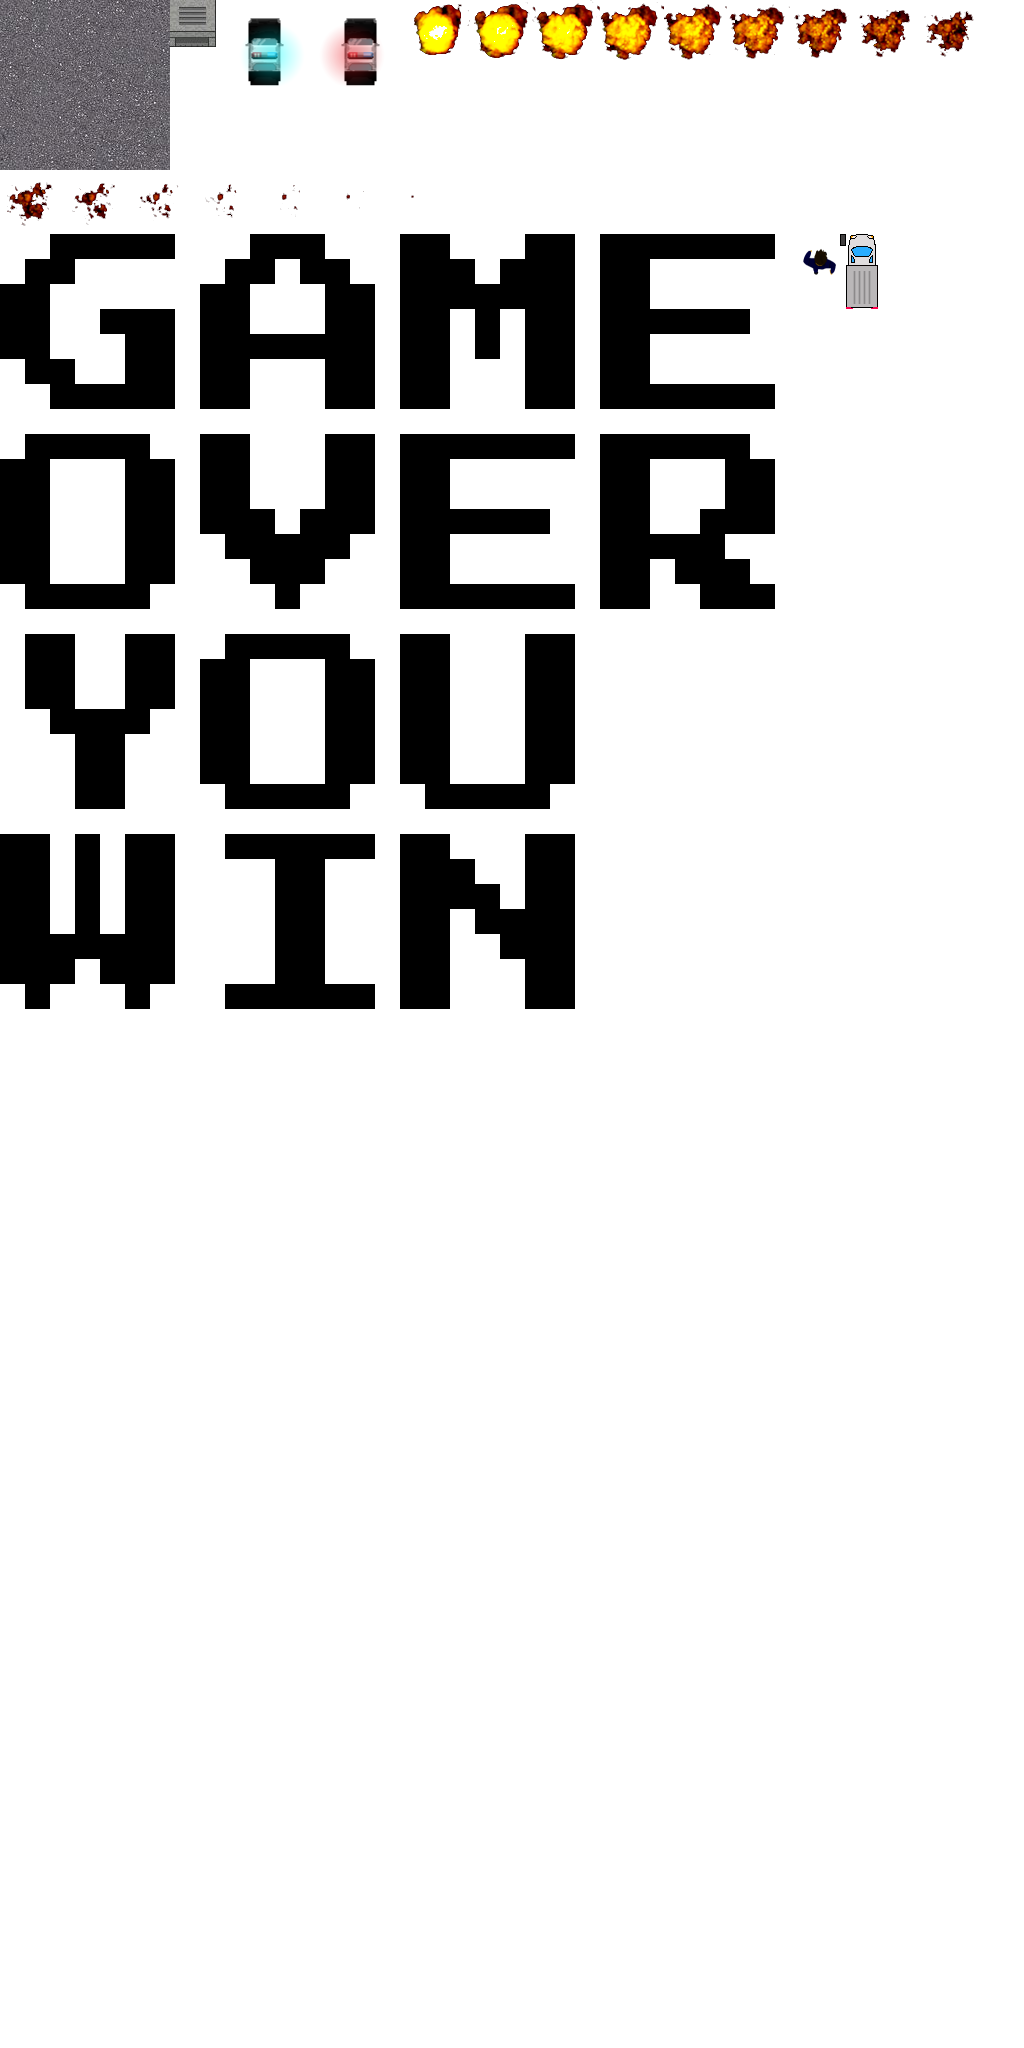
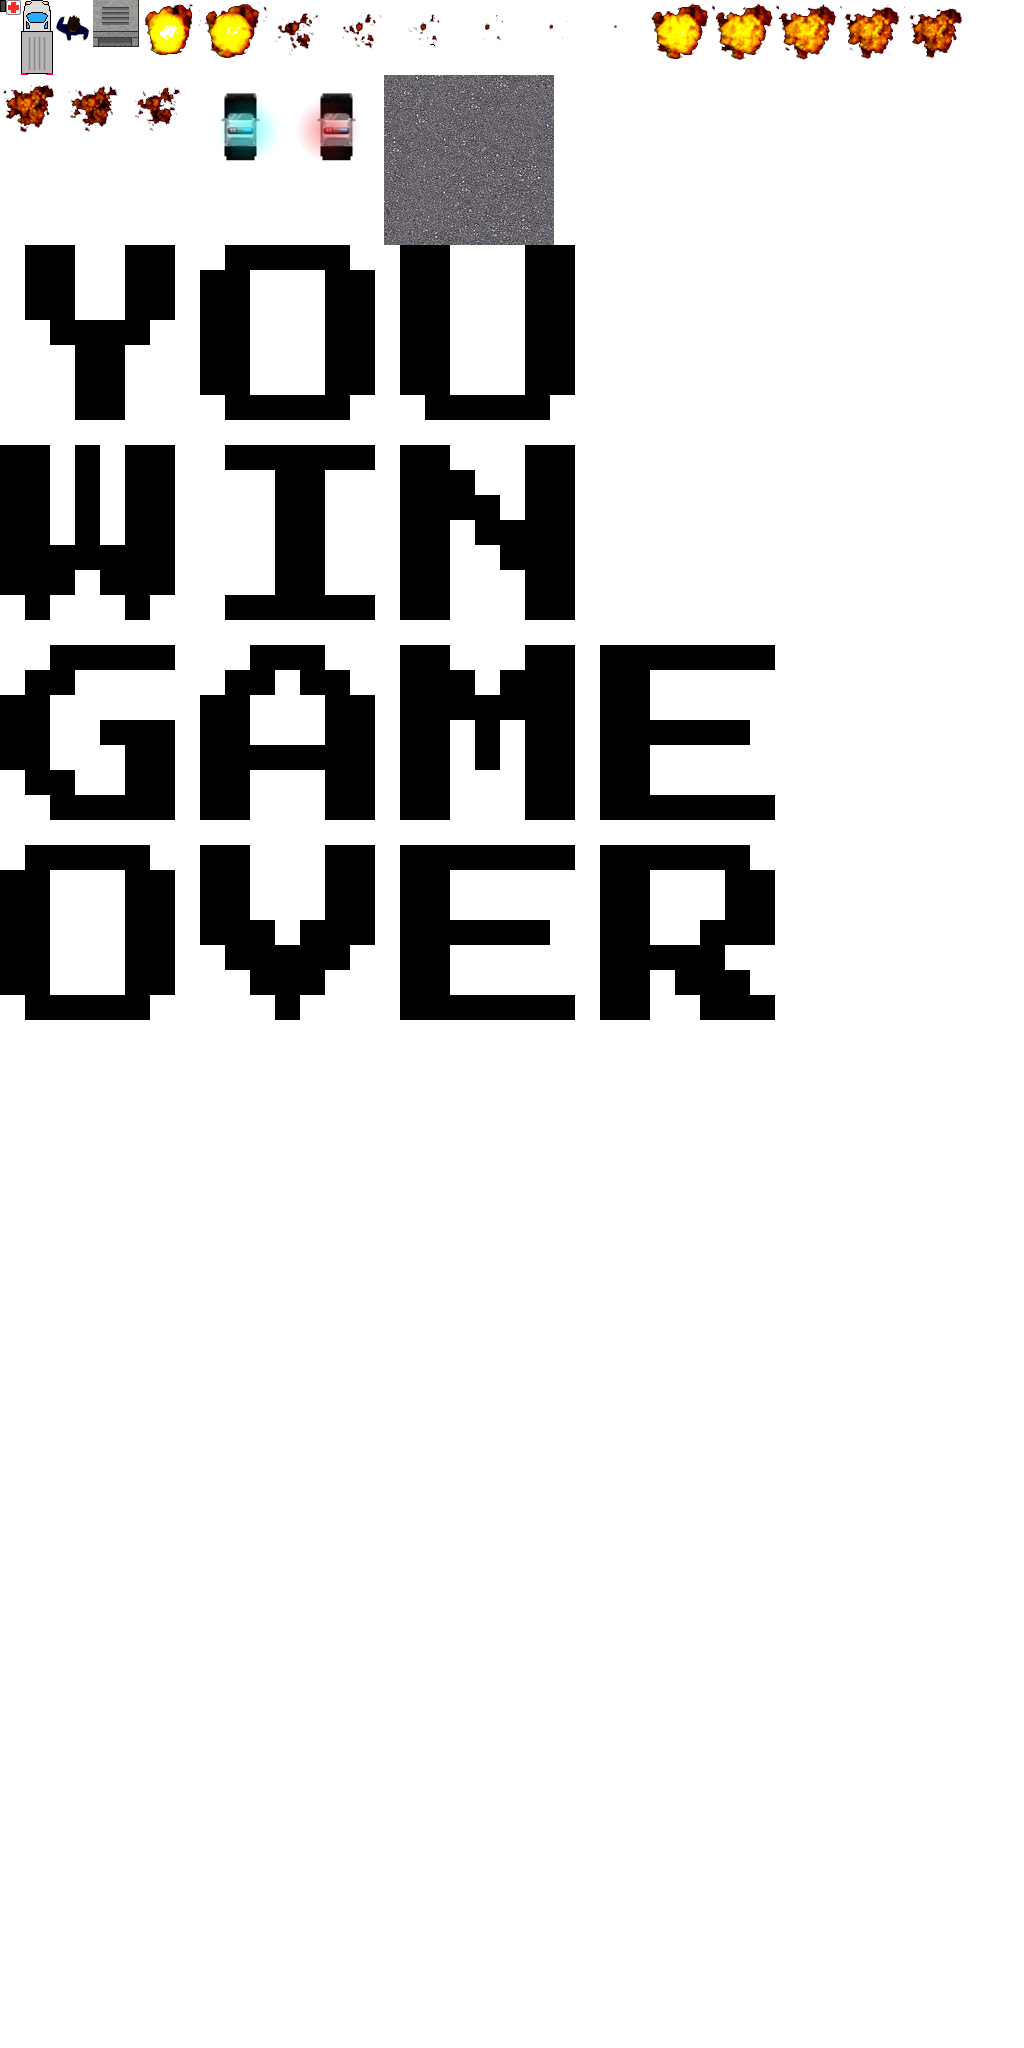
Add nonfunctional powerups

diff --git a/project/Car/CarGame.cpp b/project/Car/CarGame.cpp
@@ -13,6 +13,7 @@
 #include <random>
 #include "glm/gtc/matrix_transform.hpp"
 #include "SDL_mixer.h"
+#include "PowerupComponent.hpp"
 
 using namespace sre;
 
@@ -187,9 +188,7 @@ void CarGame::spawnEnemy(glm::vec2 position)
 {
     if (position == glm::vec2(0, 0))
     {
-        float distance = 300;
-        auto angle = ran(gen) * M_PI * 2;
-        position = carObj->getPosition() + (distance * glm::vec2(glm::sin(angle), glm::cos(angle)));
+        position = getRandomSpawnPosition();
     }
 
     auto enemyObj = createGameObject();
@@ -205,13 +204,19 @@ void CarGame::spawnEnemy(glm::vec2 position)
     enemyObj->addComponent<KillableComponent>();
 }
 
+glm::vec2 CarGame::getRandomSpawnPosition() 
+{
+    float distance = 30;
+    auto angle = ran(gen) * M_PI * 2;
+    auto position = carObj->getPosition() + (distance * glm::vec2(glm::sin(angle), glm::cos(angle)));
+    return position;
+}
+
 void CarGame::spawnNPC(glm::vec2 position)
 {
     if (position == glm::vec2(0, 0))
     {
-        float distance = 30;
-        auto angle = ran(gen) * M_PI * 2;
-        position = carObj->getPosition() + (distance * glm::vec2(glm::sin(angle), glm::cos(angle)));
+        position = getRandomSpawnPosition();
     }
 
     auto NPCObj = createGameObject();
@@ -225,6 +230,25 @@ void CarGame::spawnNPC(glm::vec2 position)
     kc->damageSpeedThreshold = 0;
     auto phys = NPCObj->addComponent<PhysicsComponent>();
     phys->initCircle(b2_dynamicBody, 30 / 10, position, 5);
+}
+
+void CarGame::spawnPowerup(PowerupType type, glm::vec2 position) 
+{
+    if (position == glm::vec2(0, 0))
+    {
+        position = getRandomSpawnPosition();
+    }
+
+    auto obj = createGameObject();
+    obj->name = "Powerup";
+    auto spriteComponent = obj->addComponent<SpriteComponent>();
+    auto sprite = spriteAtlas->get("healing.png");
+    sprite.setScale({2, 2});
+    spriteComponent->setSprite(sprite);
+    obj->setPosition(position);
+    auto phys = obj->addComponent<PhysicsComponent>();
+    phys->initCircle(b2_dynamicBody, 30 / 10, position, 5);
+    phys->setSensor(true);
 }
 
 void CarGame::handleSpawning(float time)
@@ -244,8 +268,9 @@ void CarGame::handleSpawning(float time)
     NPCSpawnTimer -= time;
     if (NPCSpawnTimer <= 0) {
 
-        NPCSpawnTimer += baseSpawnTime;
+        NPCSpawnTimer += baseSpawnTime - 3;
         spawnNPC();
+        spawnPowerup(PowerupType::Heal);
     }
 }
 
@@ -262,6 +287,7 @@ void CarGame::update(float time)
         if (sceneObjects[i]->shouldRemove && sceneObjects[i]->getComponent<KillableComponent>() != nullptr)
         {
             spawnExplosion(sceneObjects[i]->getPosition());
+
             currentScore += sceneObjects[i]->getComponent<KillableComponent>()->getPointValue();
             if (currentScore >= winningScore) {
                 std::cout << "you win" << std::endl;

diff --git a/project/Car/CarGame.hpp b/project/Car/CarGame.hpp
@@ -7,6 +7,7 @@
 #include "BackgroundComponent.hpp"
 #include "Box2DDebugDraw.hpp"
 #include <random>
+#include "PowerupComponent.hpp"
 
 class PhysicsComponent;
 
@@ -52,8 +53,10 @@ private:
     void spawnBuilding(glm::vec2 position);
     void spawnEnemy(glm::vec2 position = glm::vec2(0, 0));
     void spawnNPC(glm::vec2 position = glm::vec2(0, 0));
+    void spawnPowerup(PowerupType type, glm::vec2 position = glm::vec2(0, 0));
     void spawnExplosion(glm::vec2 position);
     void handleSpawning(float time);
+    glm::vec2 getRandomSpawnPosition();
 
     std::shared_ptr<SideScrollingCamera> camera;
     std::shared_ptr<GameObject> carObj;

diff --git a/project/Car/PowerupComponent.cpp b/project/Car/PowerupComponent.cpp
@@ -1,0 +1,27 @@
+//
+// Created by Morten Nobel-Jørgensen on 10/10/2017.
+//
+
+#include <sre/SpriteAtlas.hpp>
+
+#define GLM_ENABLE_EXPERIMENTAL
+#include <glm/gtx/transform.hpp>
+#include "PowerupComponent.hpp"
+#include "CarGame.hpp"
+
+using namespace sre;
+using namespace glm;
+
+PowerupComponent::PowerupComponent()
+{
+}
+
+void PowerupComponent::init(PowerupType type)
+{
+    this->type = type;
+}
+
+PowerupType PowerupComponent::getType() 
+{
+    return type;
+}

diff --git a/project/Car/PowerupComponent.hpp b/project/Car/PowerupComponent.hpp
@@ -1,0 +1,22 @@
+#pragma once
+
+#include "Component.hpp"
+#include "sre/SpriteBatch.hpp"
+#include "sre/Texture.hpp"
+#include "sre/RenderPass.hpp"
+
+enum class PowerupType
+{
+    Heal,
+    Invulnerability
+};
+
+class PowerupComponent
+{
+public:
+    PowerupComponent();
+    void init(PowerupType type);
+    PowerupType getType();
+private:
+    PowerupType type;
+};
